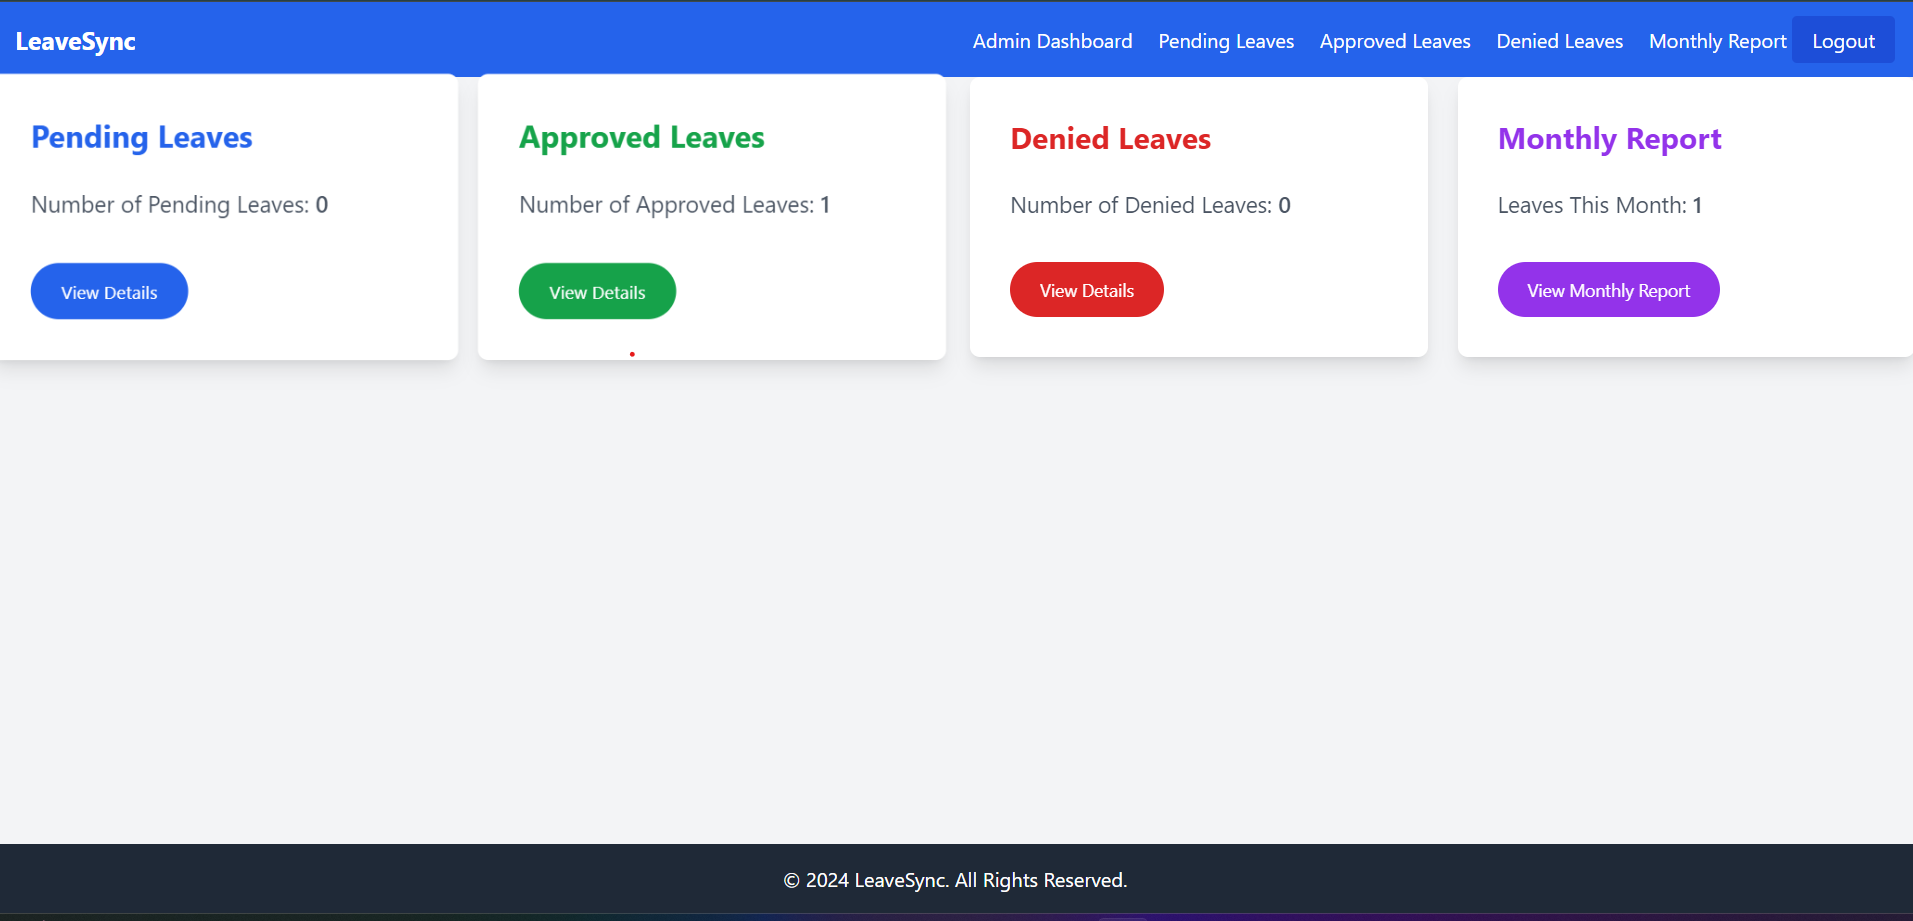
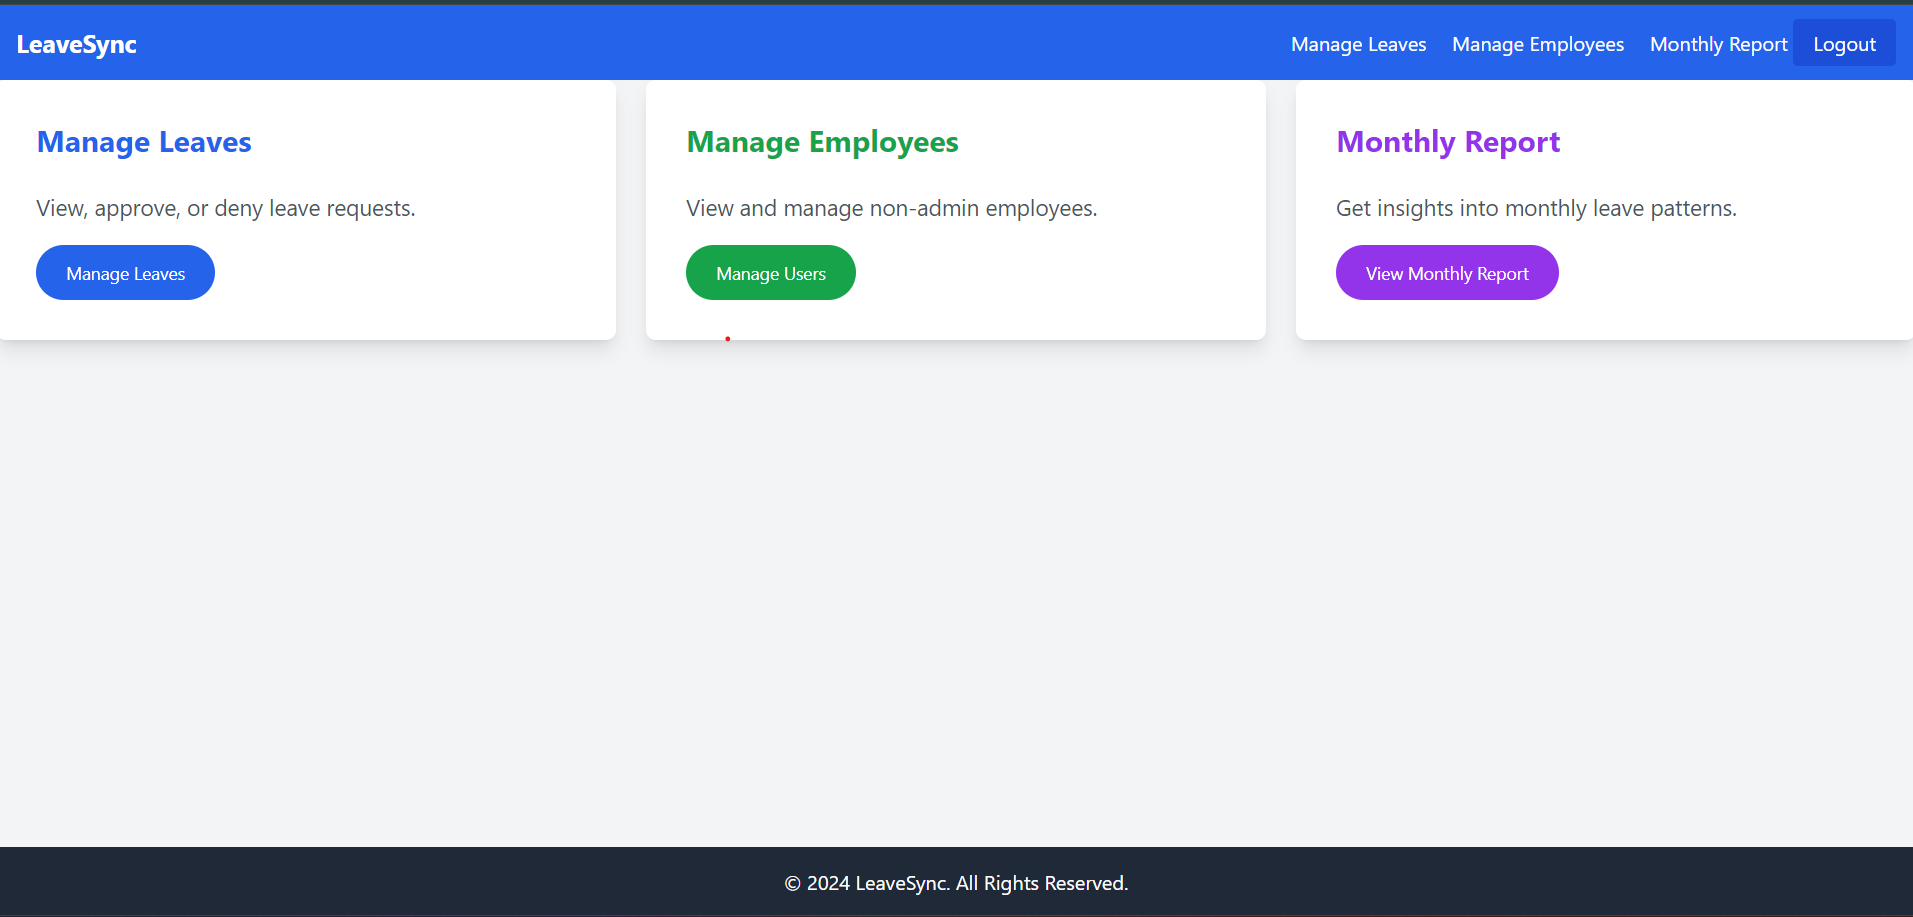
updated admin dashboard and added view function for employees

diff --git a/resources/views/admin/dashboard.blade.php b/resources/views/admin/dashboard.blade.php
@@ -1,47 +1,33 @@
-<!-- resources/views/admin/dashboard.blade.php -->
 @extends('admin.layout')
 
+@section('title', 'Admin Dashboard | ')
+
 @section('content')
-    <div class="grid grid-cols-1 md:grid-cols-4 gap-6">
-        <!-- Pending Leaves -->
-        <div class="bg-white shadow-lg rounded-lg p-8 transition-transform transform hover:scale-105">
-            <h2 class="text-2xl font-bold text-blue-600 mb-6">Pending Leaves</h2>
-            <p class="text-gray-600 text-lg mb-8">Number of Pending Leaves: <span
-                    class="font-semibold">{{ $data['pendingLeavesCount'] }}</span></p>
-            <a href="{{ route('admin.pending-leaves') }}"
+    <div class="flex flex-col md:flex-row justify-between items-center space-y-6 md:space-y-0 md:space-x-6">
+        <!-- Manage Leaves -->
+        <div class="flex-1 bg-white shadow-lg rounded-lg p-8 transition-transform transform hover:scale-105">
+            <h2 class="text-2xl font-bold text-blue-600 mb-6">Manage Leaves</h2>
+            <p class="text-gray-600 text-lg mb-4">View, approve, or deny leave requests.</p>
+            <a href="{{ route('admin.manage-leaves') }}"
                 class="inline-block bg-blue-600 text-white text-sm px-6 py-3 rounded-full transition-colors hover:bg-blue-700">
-                View Details
+                Manage Leaves
             </a>
         </div>
 
-        <!-- Approved Leaves -->
-        <div class="bg-white shadow-lg rounded-lg p-8 transition-transform transform hover:scale-105">
-            <h2 class="text-2xl font-bold text-green-600 mb-6">Approved Leaves</h2>
-            <p class="text-gray-600 text-lg mb-8">Number of Approved Leaves: <span
-                    class="font-semibold">{{ $data['approvedLeavesCount'] }}</span></p>
-            <a href="{{ route('admin.approved-leaves') }}"
+        <!-- Manage Users -->
+        <div class="flex-1 bg-white shadow-lg rounded-lg p-8 transition-transform transform hover:scale-105">
+            <h2 class="text-2xl font-bold text-green-600 mb-6">Manage Employees</h2>
+            <p class="text-gray-600 text-lg mb-4">View and manage non-admin employees.</p>
+            <a href="{{ route('admin.manage-users') }}"
                 class="inline-block bg-green-600 text-white text-sm px-6 py-3 rounded-full transition-colors hover:bg-green-700">
-                View Details
-            </a>
-        </div>
-
-        <!-- Denied Leaves -->
-        <div class="bg-white shadow-lg rounded-lg p-8 transition-transform transform hover:scale-105">
-            <h2 class="text-2xl font-bold text-red-600 mb-6">Denied Leaves</h2>
-            <p class="text-gray-600 text-lg mb-8">Number of Denied Leaves: <span
-                    class="font-semibold">{{ $data['deniedLeavesCount'] }}</span></p>
-            <a href="{{ route('admin.denied-leaves') }}"
-                class="inline-block bg-red-600 text-white text-sm px-6 py-3 rounded-full transition-colors hover:bg-red-700">
-                View Details
+                Manage Users
             </a>
         </div>
 
         <!-- Monthly Leave Report -->
-        <div class="bg-white shadow-lg rounded-lg p-8 transition-transform transform hover:scale-105">
-
+        <div class="flex-1 bg-white shadow-lg rounded-lg p-8 transition-transform transform hover:scale-105">
             <h2 class="text-2xl font-bold text-purple-600 mb-6">Monthly Report</h2>
-            <p class="text-gray-600 text-lg mb-8">Leaves This Month: <span
-                    class="font-semibold">{{ $data['monthlyLeavesCount'] }}</span></p>
+            <p class="text-gray-600 text-lg mb-4">Get insights into monthly leave patterns.</p>
             <a href="{{ route('admin.monthly-report') }}"
                 class="inline-block bg-purple-600 text-white text-sm px-6 py-3 rounded-full transition-colors hover:bg-purple-700">
                 View Monthly Report

diff --git a/resources/views/admin/manage-users.blade.php b/resources/views/admin/manage-users.blade.php
@@ -1,0 +1,48 @@
+<!-- resources/views/admin/manage-users.blade.php -->
+@extends('admin.layout')
+
+@section('content')
+    <div class="bg-white shadow-lg rounded-lg p-8">
+        <h2 class="text-2xl font-bold text-purple-600 mb-6">Employee Information</h2>
+        <div class="overflow-x-auto">
+            @if ($nonAdminUsers->isEmpty())
+                <p class="text-center text-gray-600">No employees found.</p>
+            @else
+                <table class="min-w-full divide-y divide-gray-200">
+                    <thead>
+                        <tr class="bg-gray-50">
+                            <th class="px-6 py-3 text-left text-xs font-medium text-gray-500 uppercase tracking-wider">Name
+                            </th>
+                            <th class="px-6 py-3 text-left text-xs font-medium text-gray-500 uppercase tracking-wider">Email
+                            </th>
+                            <th class="px-6 py-3 text-left text-xs font-medium text-gray-500 uppercase tracking-wider">
+                                Actions</th>
+                        </tr>
+                    </thead>
+                    <tbody class="bg-white divide-y divide-gray-200">
+                        @foreach ($nonAdminUsers as $user)
+                            <tr>
+                                <td class="px-6 py-4 whitespace-nowrap text-sm text-gray-900">{{ $user->name }}</td>
+                                <td class="px-6 py-4 whitespace-nowrap text-sm text-gray-900">{{ $user->email }}</td>
+                                <td class="px-6 py-4 whitespace-nowrap text-sm">
+                                    <!-- Delete User Form -->
+                                    <form action="{{ route('admin.users.destroy', $user->id) }}" method="POST"
+                                        onsubmit="return confirm('Are you sure you want to delete this employee?');">
+                                        @csrf
+                                        @method('DELETE')
+                                        <button type="submit" class="text-red-600 hover:text-red-900">Delete</button>
+                                    </form>
+                                </td>
+                            </tr>
+                        @endforeach
+                    </tbody>
+                </table>
+
+                <!-- Pagination Links -->
+                <div class="mt-4">
+                    {{ $nonAdminUsers->links() }}
+                </div>
+            @endif
+        </div>
+    </div>
+@endsection

diff --git a/resources/views/admin/manage-leaves.blade.php b/resources/views/admin/manage-leaves.blade.php
@@ -1,0 +1,39 @@
+<!-- resources/views/admin/dashboard.blade.php -->
+@extends('admin.layout')
+
+@section('content')
+    <div class="grid grid-cols-1 md:grid-cols-3 gap-6">
+        <!-- Pending Leaves -->
+        <div class="bg-white shadow-lg rounded-lg p-8 transition-transform transform hover:scale-105">
+            <h2 class="text-2xl font-bold text-blue-600 mb-6">Pending Leaves</h2>
+            <p class="text-gray-600 text-lg mb-8">Number of Pending Leaves: <span
+                    class="font-semibold">{{ $data['pendingLeavesCount'] }}</span></p>
+            <a href="{{ route('admin.pending-leaves') }}"
+                class="inline-block bg-blue-600 text-white text-sm px-6 py-3 rounded-full transition-colors hover:bg-blue-700">
+                View Details
+            </a>
+        </div>
+
+        <!-- Approved Leaves -->
+        <div class="bg-white shadow-lg rounded-lg p-8 transition-transform transform hover:scale-105">
+            <h2 class="text-2xl font-bold text-green-600 mb-6">Approved Leaves</h2>
+            <p class="text-gray-600 text-lg mb-8">Number of Approved Leaves: <span
+                    class="font-semibold">{{ $data['approvedLeavesCount'] }}</span></p>
+            <a href="{{ route('admin.approved-leaves') }}"
+                class="inline-block bg-green-600 text-white text-sm px-6 py-3 rounded-full transition-colors hover:bg-green-700">
+                View Details
+            </a>
+        </div>
+
+        <!-- Denied Leaves -->
+        <div class="bg-white shadow-lg rounded-lg p-8 transition-transform transform hover:scale-105">
+            <h2 class="text-2xl font-bold text-red-600 mb-6">Denied Leaves</h2>
+            <p class="text-gray-600 text-lg mb-8">Number of Denied Leaves: <span
+                    class="font-semibold">{{ $data['deniedLeavesCount'] }}</span></p>
+            <a href="{{ route('admin.denied-leaves') }}"
+                class="inline-block bg-red-600 text-white text-sm px-6 py-3 rounded-full transition-colors hover:bg-red-700">
+                View Details
+            </a>
+        </div>
+    </div>
+@endsection

diff --git a/routes/web.php b/routes/web.php
@@ -10,6 +10,10 @@ Route::middleware(['auth', 'admin'])->prefix('admin')->group(function () {
 
     Route::get('/dashboard', [AdminController::class, 'dashboard'])->name('admin-dashboard');
 
+    Route::get('/manage-leaves', [AdminController::class, 'manageLeaves'])->name('admin.manage-leaves');
+
+    Route::get('/manage-users', [AdminController::class, 'manageUsers'])->name('admin.manage-users');
+
     Route::get('/pending-leaves', [AdminController::class, 'pendingLeaves'])->name('admin.pending-leaves');
 
     Route::get('/approved-leaves', [AdminController::class, 'approvedLeaves'])->name('admin.approved-leaves');
@@ -21,6 +25,9 @@ Route::middleware(['auth', 'admin'])->prefix('admin')->group(function () {
     Route::post('/leave/{id}/deny', [AdminController::class, 'denyLeave'])->name('admin.deny-leave');
 
     Route::get('/monthly-leave-report', [AdminController::class, 'monthlyReport'])->name('admin.monthly-report');
+
+    Route::delete('/users/{id}', [AdminController::class, 'deleteUser'])->name('admin.users.destroy');
+
 
 
 });
@@ -42,13 +49,13 @@ Route::middleware(['auth'])->prefix('user')->group(function () {
     Route::delete('/leaves/{id}', [LeaveController::class, 'destroy'])->name('leave.destroy');
 });
 
-Route::get('/login', [LoginController::class, 'showLoginForm'])->name('login');
+Route::get('/login', [LoginController::class, 'showLoginForm'])->name('login')->middleware('guest');
 
 Route::post('/login', [LoginController::class, 'login'])->name('login.post');
 
 Route::get('/logout', [LoginController::class, 'logout'])->name('logout');
 
-Route::get('/register', [LoginController::class, 'showRegisterForm'])->name('register');
+Route::get('/register', [LoginController::class, 'showRegisterForm'])->name('register')->middleware('guest');
 
 Route::post('/register', [LoginController::class, 'register'])->name('register.post');
 

diff --git a/app/Http/Controllers/AdminController.php b/app/Http/Controllers/AdminController.php
@@ -14,16 +14,26 @@ class AdminController extends Controller
 
     public function dashboard()
     {
-        $currentMonth = Carbon::now()->month;
+        return view('admin.dashboard');
+    }
+
+    public function manageLeaves()
+    {
         $data = [
             'pendingLeavesCount' => Leave::where('status', 'Pending')->count(),
             'approvedLeavesCount' => Leave::where('status', 'Approved')->count(),
             'deniedLeavesCount' => Leave::where('status', 'Denied')->count(),
-            'monthlyLeavesCount' => Leave::whereMonth('start_date', $currentMonth)->where('status', 'Approved')->count(),
         ];
-        return view('admin.dashboard', compact('data'));
+
+        return view('admin.manage-leaves', compact('data'));
     }
 
+    public function manageUsers()
+    {
+        $nonAdminUsers = User::where('is_admin', 0)->paginate(10);
+
+        return view('admin.manage-users', compact('nonAdminUsers'));
+    }
 
     public function pendingLeaves()
     {
@@ -82,6 +92,17 @@ class AdminController extends Controller
         return view('admin.monthly-report', compact('monthlyLeaveData'));
 
 
+    }
+
+    public function deleteUser($id)
+    {
+        // Find the user by ID
+        $user = User::findOrFail($id);
+
+        // Delete the user
+        $user->delete();
+
+        return redirect()->route('admin.manage-users')->with('success', 'User deleted successfully.');
     }
 
 }

diff --git a/resources/views/admin/layout.blade.php b/resources/views/admin/layout.blade.php
@@ -19,11 +19,8 @@
                 </div>
             </a>
             <nav>
-                <a href="{{ route('admin-dashboard') }}" class="ml-4 hover:text-gray-200">Admin Dashboard</a>
-                <a href="{{ route('admin.pending-leaves') }}" class="ml-4 hover:text-gray-200">Pending Leaves</a>
-                <a href="{{ route('admin.approved-leaves') }}" class="ml-4 hover:text-gray-200">Approved Leaves</a>
-                <a href="{{ route('admin.denied-leaves') }}" class="ml-4 hover:text-gray-200">Denied
-                    Leaves</a>
+                <a href="{{ route('admin.manage-leaves') }}" class="ml-4 hover:text-gray-200">Manage Leaves</a>
+                <a href="{{ route('admin.manage-users') }}" class="ml-4 hover:text-gray-200">Manage Employees</a>
                 <a href="{{ route('admin.monthly-report') }}" class="ml-4 hover:text-gray-200">Monthly Report</a>
                 <a href="{{ route('logout') }}" class="text-white bg-blue-700 hover:bg-blue-800 px-4 py-2 rounded">
                     Logout

diff --git a/README.md b/README.md
@@ -6,7 +6,7 @@ A comprehensive Leave Management System built with Laravel 10.0 and Tailwind CSS
 
 -   User authentication (login, registration)
 -   User dashboard to view and manage leave requests
--   Admin dashboard to view pending, approved, and denied leave requests
+-   Admin dashboard to view pending, approved,denied leave requests and manage employees
 -   Create, edit, and delete leave requests
 -   Email notifications for leave approval and denial
 -   Responsive UI with Tailwind CSS
